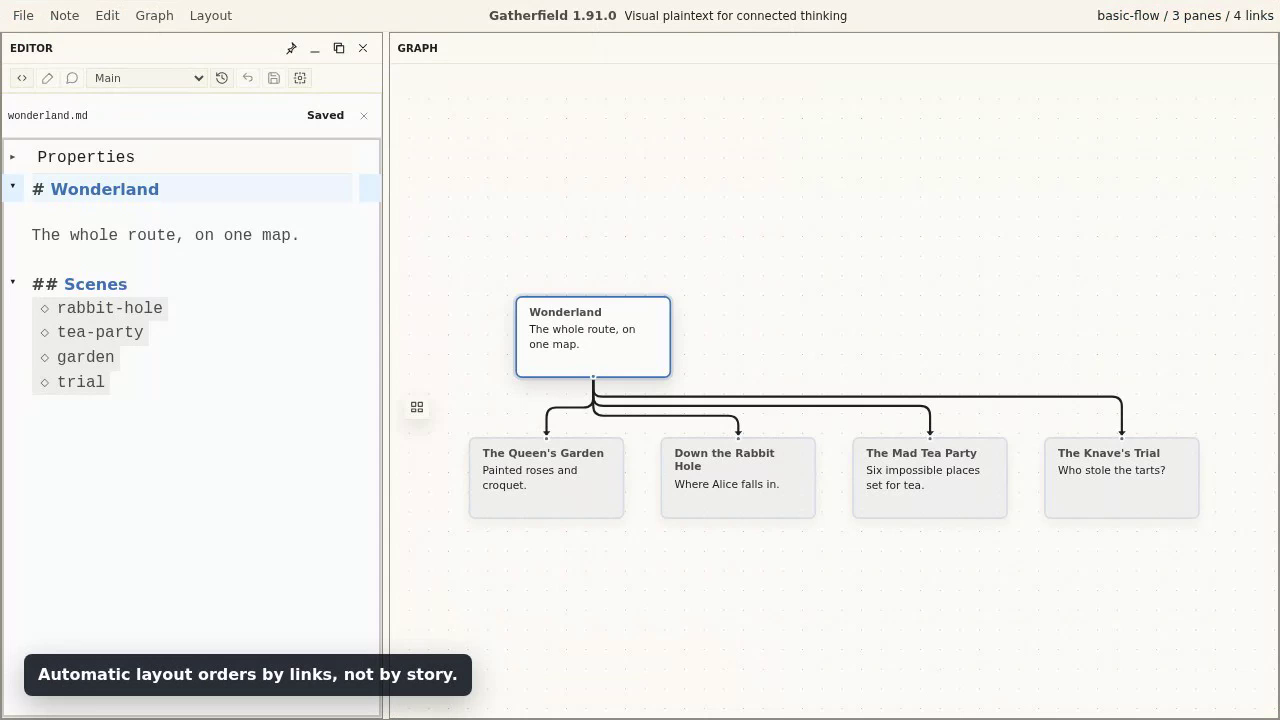
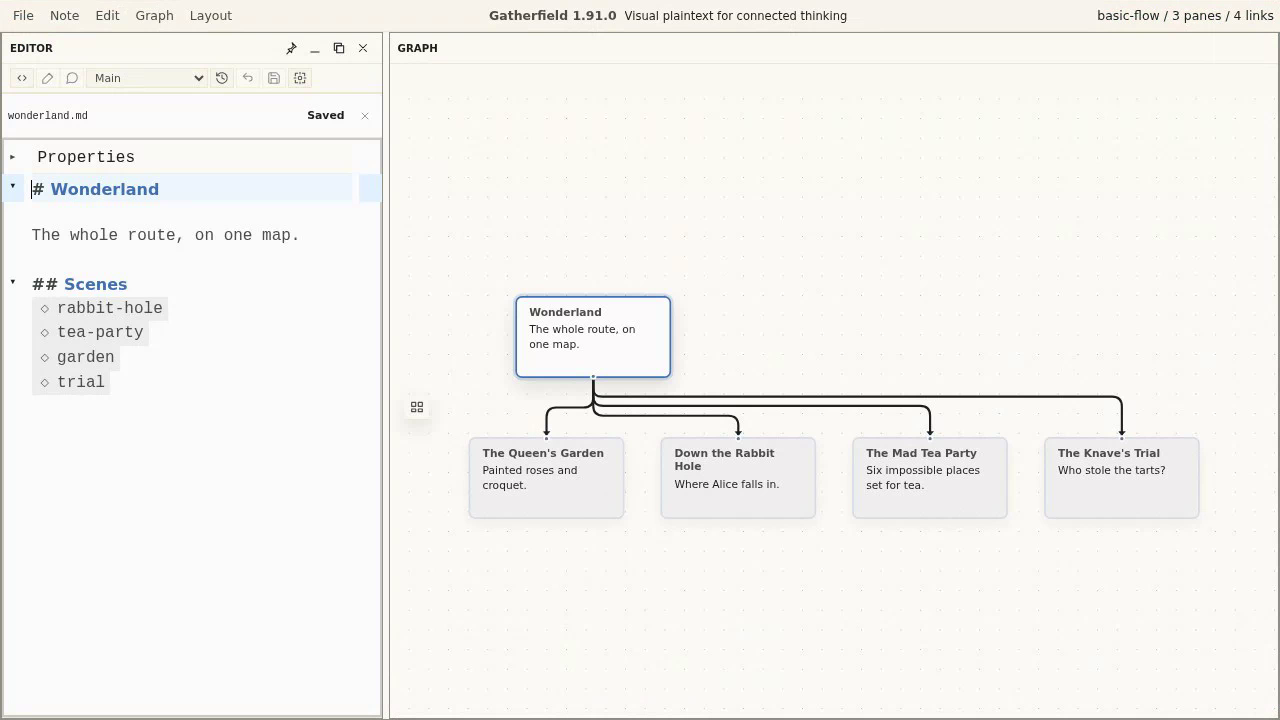
Deploy homepage (build 7c21456c)
Sync the static Pages payload to the current index.html: 25 referenced assets plus 6 infra files. Generated by deploy-pages.mjs.

Changed region(s): [[0.0, 0.8861, 0.375, 1.0]]

diff --git a/index.html b/index.html
@@ -81,17 +81,17 @@
           <figure class="story-media" aria-label="Gatherfield first-class graph video">
             <div class="video-frame is-ready">
               <video
-                poster="./assets/posters/2026-06-15-first-class-graph-poster.png?v=20260615-build-7c21456c-1280-12pt"
+                poster="./assets/posters/2026-06-15-first-class-graph-poster.png?v=20260615-build-7c21456c-1280-12pt-r2"
                 muted
                 loop
                 playsinline
                 controls
                 preload="metadata"
               >
-                <source src="./assets/videos/2026-06-15-first-class-graph.mp4?v=20260615-build-7c21456c-1280-12pt" type="video/mp4" />
-                <source src="./assets/videos/2026-06-15-first-class-graph.webm?v=20260615-build-7c21456c-1280-12pt" type="video/webm" />
+                <source src="./assets/videos/2026-06-15-first-class-graph.mp4?v=20260615-build-7c21456c-1280-12pt-r2" type="video/mp4" />
+                <source src="./assets/videos/2026-06-15-first-class-graph.webm?v=20260615-build-7c21456c-1280-12pt-r2" type="video/webm" />
                 Your browser cannot play this Gatherfield walkthrough video. Download the MP4 from
-                <a href="./assets/videos/2026-06-15-first-class-graph.mp4?v=20260615-build-7c21456c-1280-12pt">this link</a>.
+                <a href="./assets/videos/2026-06-15-first-class-graph.mp4?v=20260615-build-7c21456c-1280-12pt-r2">this link</a>.
               </video>
             </div>
             <figcaption>Plaintext links create the graph; following a link opens the next pane in context.</figcaption>
@@ -109,17 +109,17 @@
           <figure class="story-media" aria-label="Gatherfield manual board arrangement video">
             <div class="video-frame is-ready">
               <video
-                poster="./assets/posters/2026-06-15-manual-board-arrangement-poster.png?v=20260615-build-7c21456c-1280-12pt"
+                poster="./assets/posters/2026-06-15-manual-board-arrangement-poster.png?v=20260615-build-7c21456c-1280-12pt-r2"
                 muted
                 loop
                 playsinline
                 controls
                 preload="metadata"
               >
-                <source src="./assets/videos/2026-06-15-manual-board-arrangement.mp4?v=20260615-build-7c21456c-1280-12pt" type="video/mp4" />
-                <source src="./assets/videos/2026-06-15-manual-board-arrangement.webm?v=20260615-build-7c21456c-1280-12pt" type="video/webm" />
+                <source src="./assets/videos/2026-06-15-manual-board-arrangement.mp4?v=20260615-build-7c21456c-1280-12pt-r2" type="video/mp4" />
+                <source src="./assets/videos/2026-06-15-manual-board-arrangement.webm?v=20260615-build-7c21456c-1280-12pt-r2" type="video/webm" />
                 Your browser cannot play this Gatherfield walkthrough video. Download the MP4 from
-                <a href="./assets/videos/2026-06-15-manual-board-arrangement.mp4?v=20260615-build-7c21456c-1280-12pt">this link</a>.
+                <a href="./assets/videos/2026-06-15-manual-board-arrangement.mp4?v=20260615-build-7c21456c-1280-12pt-r2">this link</a>.
               </video>
             </div>
             <figcaption>Switch to Manual and place the nodes by hand; the layout saves beside the note.</figcaption>
@@ -137,17 +137,17 @@
           <figure class="story-media" aria-label="Gatherfield plaintext versions change map video">
             <div class="video-frame is-ready">
               <video
-                poster="./assets/posters/2026-06-15-plaintext-versions-change-map-poster.png?v=20260615-build-7c21456c-1280-12pt"
+                poster="./assets/posters/2026-06-15-plaintext-versions-change-map-poster.png?v=20260615-build-7c21456c-1280-12pt-r2"
                 muted
                 loop
                 playsinline
                 controls
                 preload="metadata"
               >
-                <source src="./assets/videos/2026-06-15-plaintext-versions-change-map.mp4?v=20260615-build-7c21456c-1280-12pt" type="video/mp4" />
-                <source src="./assets/videos/2026-06-15-plaintext-versions-change-map.webm?v=20260615-build-7c21456c-1280-12pt" type="video/webm" />
+                <source src="./assets/videos/2026-06-15-plaintext-versions-change-map.mp4?v=20260615-build-7c21456c-1280-12pt-r2" type="video/mp4" />
+                <source src="./assets/videos/2026-06-15-plaintext-versions-change-map.webm?v=20260615-build-7c21456c-1280-12pt-r2" type="video/webm" />
                 Your browser cannot play this Gatherfield walkthrough video. Download the MP4 from
-                <a href="./assets/videos/2026-06-15-plaintext-versions-change-map.mp4?v=20260615-build-7c21456c-1280-12pt">this link</a>.
+                <a href="./assets/videos/2026-06-15-plaintext-versions-change-map.mp4?v=20260615-build-7c21456c-1280-12pt-r2">this link</a>.
               </video>
             </div>
             <figcaption>Switching versions redraws the graph.</figcaption>
@@ -165,17 +165,17 @@
           <figure class="story-media" aria-label="Gatherfield recoverable history video">
             <div class="video-frame is-ready">
               <video
-                poster="./assets/posters/2026-06-15-local-files-recoverable-history-poster.png?v=20260615-build-7c21456c-1280-12pt"
+                poster="./assets/posters/2026-06-15-local-files-recoverable-history-poster.png?v=20260615-build-7c21456c-1280-12pt-r2"
                 muted
                 loop
                 playsinline
                 controls
                 preload="metadata"
               >
-                <source src="./assets/videos/2026-06-15-local-files-recoverable-history.mp4?v=20260615-build-7c21456c-1280-12pt" type="video/mp4" />
-                <source src="./assets/videos/2026-06-15-local-files-recoverable-history.webm?v=20260615-build-7c21456c-1280-12pt" type="video/webm" />
+                <source src="./assets/videos/2026-06-15-local-files-recoverable-history.mp4?v=20260615-build-7c21456c-1280-12pt-r2" type="video/mp4" />
+                <source src="./assets/videos/2026-06-15-local-files-recoverable-history.webm?v=20260615-build-7c21456c-1280-12pt-r2" type="video/webm" />
                 Your browser cannot play this Gatherfield walkthrough video. Download the MP4 from
-                <a href="./assets/videos/2026-06-15-local-files-recoverable-history.mp4?v=20260615-build-7c21456c-1280-12pt">this link</a>.
+                <a href="./assets/videos/2026-06-15-local-files-recoverable-history.mp4?v=20260615-build-7c21456c-1280-12pt-r2">this link</a>.
               </video>
             </div>
             <figcaption>History stays recoverable while the note remains plaintext.</figcaption>
@@ -193,17 +193,17 @@
           <figure class="story-media" aria-label="Gatherfield research sources video">
             <div class="video-frame is-ready">
               <video
-                poster="./assets/posters/2026-06-15-research-out-of-concept-map-poster.png?v=20260615-build-7c21456c-1280-12pt"
+                poster="./assets/posters/2026-06-15-research-out-of-concept-map-poster.png?v=20260615-build-7c21456c-1280-12pt-r2"
                 muted
                 loop
                 playsinline
                 controls
                 preload="metadata"
               >
-                <source src="./assets/videos/2026-06-15-research-out-of-concept-map.mp4?v=20260615-build-7c21456c-1280-12pt" type="video/mp4" />
-                <source src="./assets/videos/2026-06-15-research-out-of-concept-map.webm?v=20260615-build-7c21456c-1280-12pt" type="video/webm" />
+                <source src="./assets/videos/2026-06-15-research-out-of-concept-map.mp4?v=20260615-build-7c21456c-1280-12pt-r2" type="video/mp4" />
+                <source src="./assets/videos/2026-06-15-research-out-of-concept-map.webm?v=20260615-build-7c21456c-1280-12pt-r2" type="video/webm" />
                 Your browser cannot play this Gatherfield walkthrough video. Download the MP4 from
-                <a href="./assets/videos/2026-06-15-research-out-of-concept-map.mp4?v=20260615-build-7c21456c-1280-12pt">this link</a>.
+                <a href="./assets/videos/2026-06-15-research-out-of-concept-map.mp4?v=20260615-build-7c21456c-1280-12pt-r2">this link</a>.
               </video>
             </div>
             <figcaption>Sources and citekeys collect beside the note while the concept map stays clean.</figcaption>
@@ -221,17 +221,17 @@
           <figure class="story-media" aria-label="Gatherfield comments and highlights video">
             <div class="video-frame is-ready">
               <video
-                poster="./assets/posters/2026-06-15-comments-and-highlights-poster.png?v=20260615-build-7c21456c-1280-12pt"
+                poster="./assets/posters/2026-06-15-comments-and-highlights-poster.png?v=20260615-build-7c21456c-1280-12pt-r2"
                 muted
                 loop
                 playsinline
                 controls
                 preload="metadata"
               >
-                <source src="./assets/videos/2026-06-15-comments-and-highlights.mp4?v=20260615-build-7c21456c-1280-12pt" type="video/mp4" />
-                <source src="./assets/videos/2026-06-15-comments-and-highlights.webm?v=20260615-build-7c21456c-1280-12pt" type="video/webm" />
+                <source src="./assets/videos/2026-06-15-comments-and-highlights.mp4?v=20260615-build-7c21456c-1280-12pt-r2" type="video/mp4" />
+                <source src="./assets/videos/2026-06-15-comments-and-highlights.webm?v=20260615-build-7c21456c-1280-12pt-r2" type="video/webm" />
                 Your browser cannot play this Gatherfield walkthrough video. Download the MP4 from
-                <a href="./assets/videos/2026-06-15-comments-and-highlights.mp4?v=20260615-build-7c21456c-1280-12pt">this link</a>.
+                <a href="./assets/videos/2026-06-15-comments-and-highlights.mp4?v=20260615-build-7c21456c-1280-12pt-r2">this link</a>.
               </video>
             </div>
             <figcaption>Highlights and margin comments stay attached to the passage while the note remains plaintext.</figcaption>
@@ -249,17 +249,17 @@
           <figure class="story-media" aria-label="Gatherfield Draft read-through video">
             <div class="video-frame is-ready">
               <video
-                poster="./assets/posters/2026-06-15-draft-read-through-from-linked-notes-poster.png?v=20260615-build-7c21456c-1280-12pt"
+                poster="./assets/posters/2026-06-15-draft-read-through-from-linked-notes-poster.png?v=20260615-build-7c21456c-1280-12pt-r2"
                 muted
                 loop
                 playsinline
                 controls
                 preload="metadata"
               >
-                <source src="./assets/videos/2026-06-15-draft-read-through-from-linked-notes.mp4?v=20260615-build-7c21456c-1280-12pt" type="video/mp4" />
-                <source src="./assets/videos/2026-06-15-draft-read-through-from-linked-notes.webm?v=20260615-build-7c21456c-1280-12pt" type="video/webm" />
+                <source src="./assets/videos/2026-06-15-draft-read-through-from-linked-notes.mp4?v=20260615-build-7c21456c-1280-12pt-r2" type="video/mp4" />
+                <source src="./assets/videos/2026-06-15-draft-read-through-from-linked-notes.webm?v=20260615-build-7c21456c-1280-12pt-r2" type="video/webm" />
                 Your browser cannot play this Gatherfield walkthrough video. Download the MP4 from
-                <a href="./assets/videos/2026-06-15-draft-read-through-from-linked-notes.mp4?v=20260615-build-7c21456c-1280-12pt">this link</a>.
+                <a href="./assets/videos/2026-06-15-draft-read-through-from-linked-notes.mp4?v=20260615-build-7c21456c-1280-12pt-r2">this link</a>.
               </video>
             </div>
             <figcaption>Rearranging inclusion links updates the read-through draft.</figcaption>
@@ -277,17 +277,17 @@
           <figure class="story-media" aria-label="Gatherfield split and combine notes video">
             <div class="video-frame is-ready">
               <video
-                poster="./assets/posters/2026-06-15-split-and-combine-notes-poster.png?v=20260615-build-7c21456c-1280-12pt"
+                poster="./assets/posters/2026-06-15-split-and-combine-notes-poster.png?v=20260615-build-7c21456c-1280-12pt-r2"
                 muted
                 loop
                 playsinline
                 controls
                 preload="metadata"
               >
-                <source src="./assets/videos/2026-06-15-split-and-combine-notes.mp4?v=20260615-build-7c21456c-1280-12pt" type="video/mp4" />
-                <source src="./assets/videos/2026-06-15-split-and-combine-notes.webm?v=20260615-build-7c21456c-1280-12pt" type="video/webm" />
+                <source src="./assets/videos/2026-06-15-split-and-combine-notes.mp4?v=20260615-build-7c21456c-1280-12pt-r2" type="video/mp4" />
+                <source src="./assets/videos/2026-06-15-split-and-combine-notes.webm?v=20260615-build-7c21456c-1280-12pt-r2" type="video/webm" />
                 Your browser cannot play this Gatherfield walkthrough video. Download the MP4 from
-                <a href="./assets/videos/2026-06-15-split-and-combine-notes.mp4?v=20260615-build-7c21456c-1280-12pt">this link</a>.
+                <a href="./assets/videos/2026-06-15-split-and-combine-notes.mp4?v=20260615-build-7c21456c-1280-12pt-r2">this link</a>.
               </video>
             </div>
             <figcaption>A section splits into a fifth node while another linked note folds back into the active note.</figcaption>